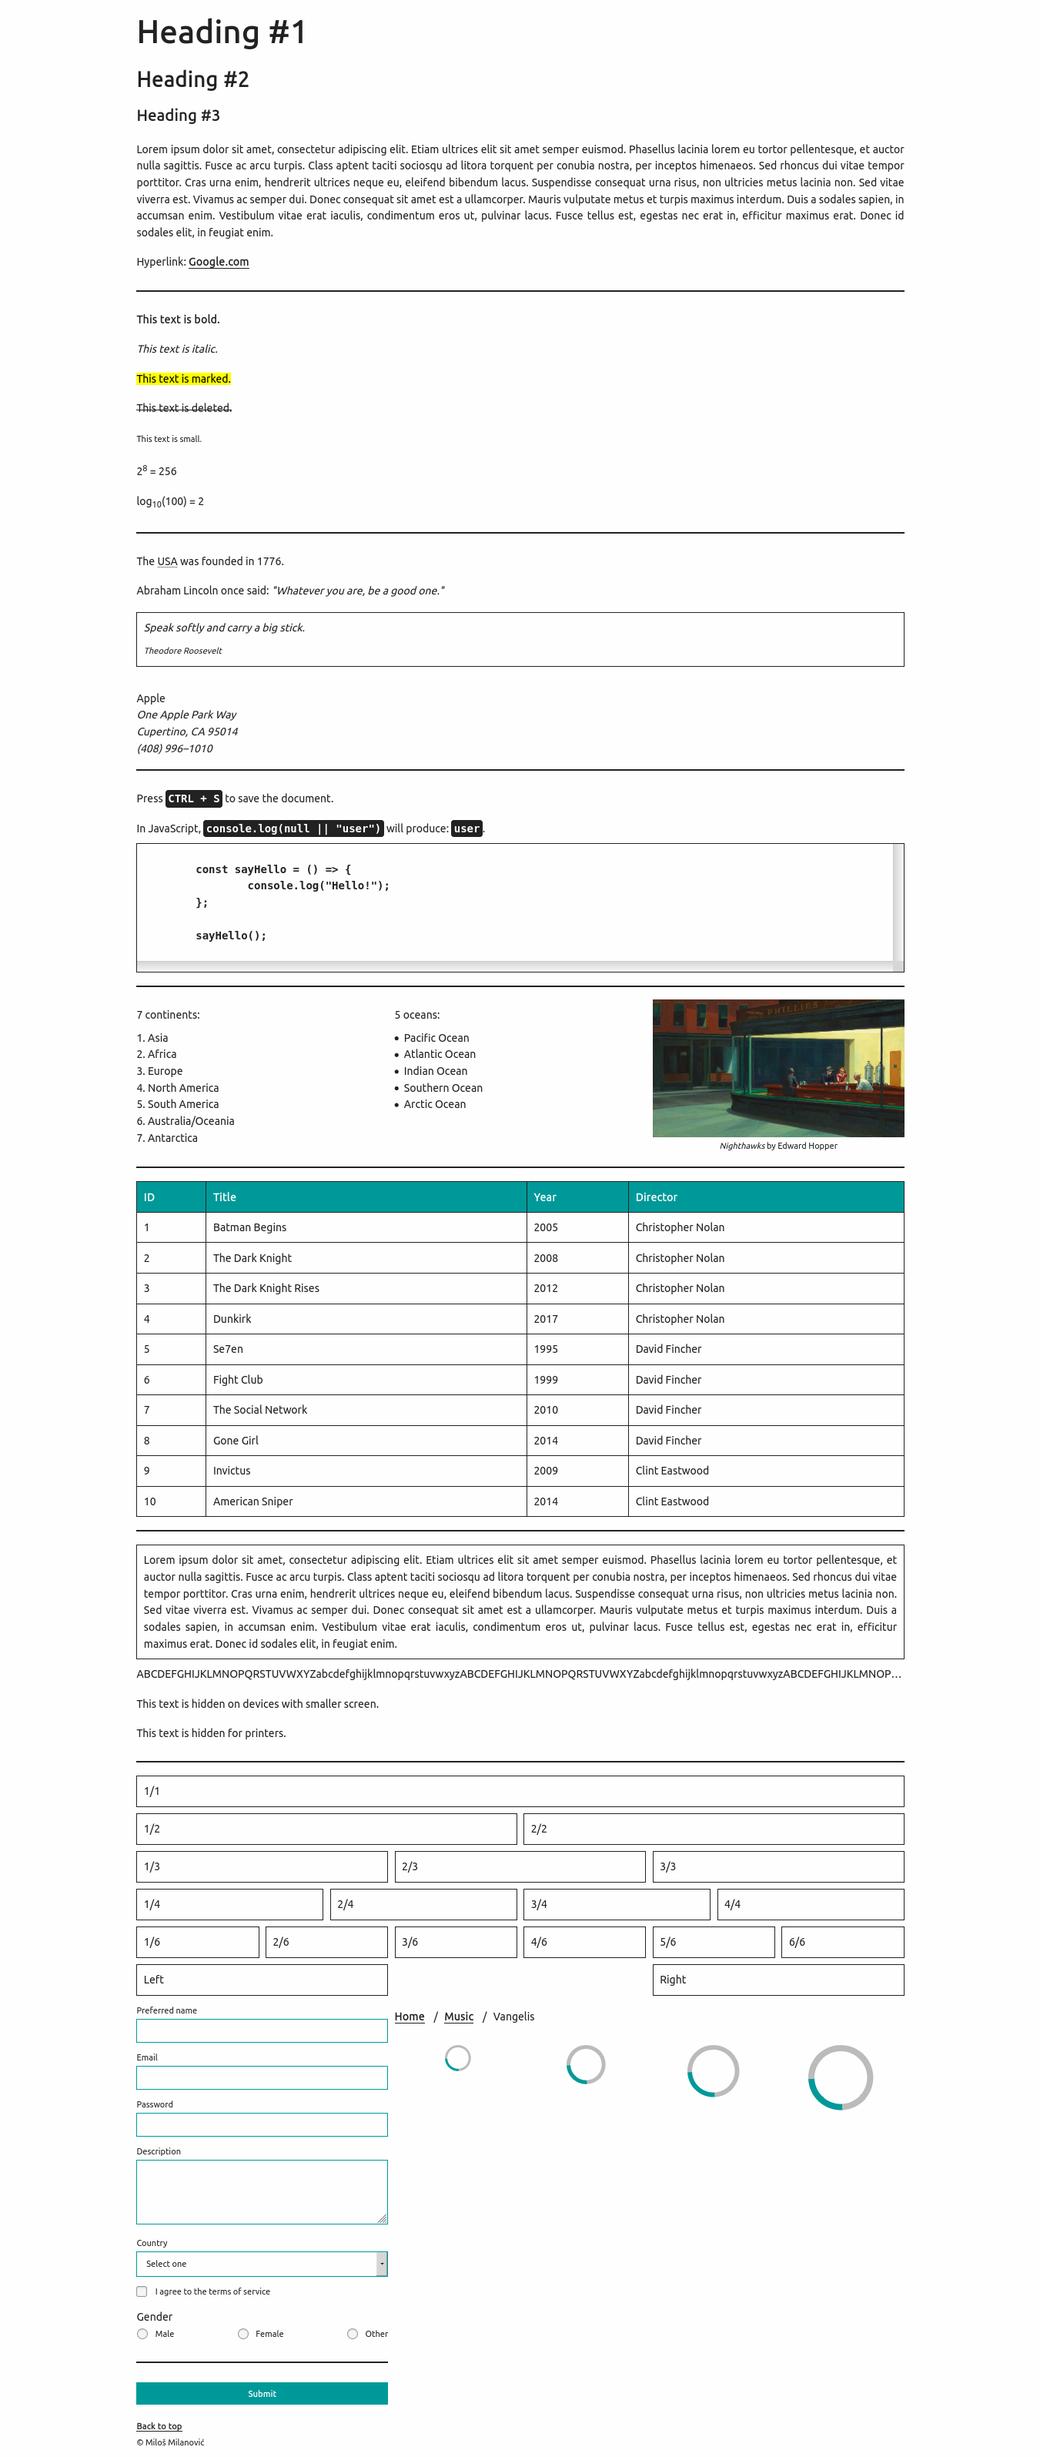
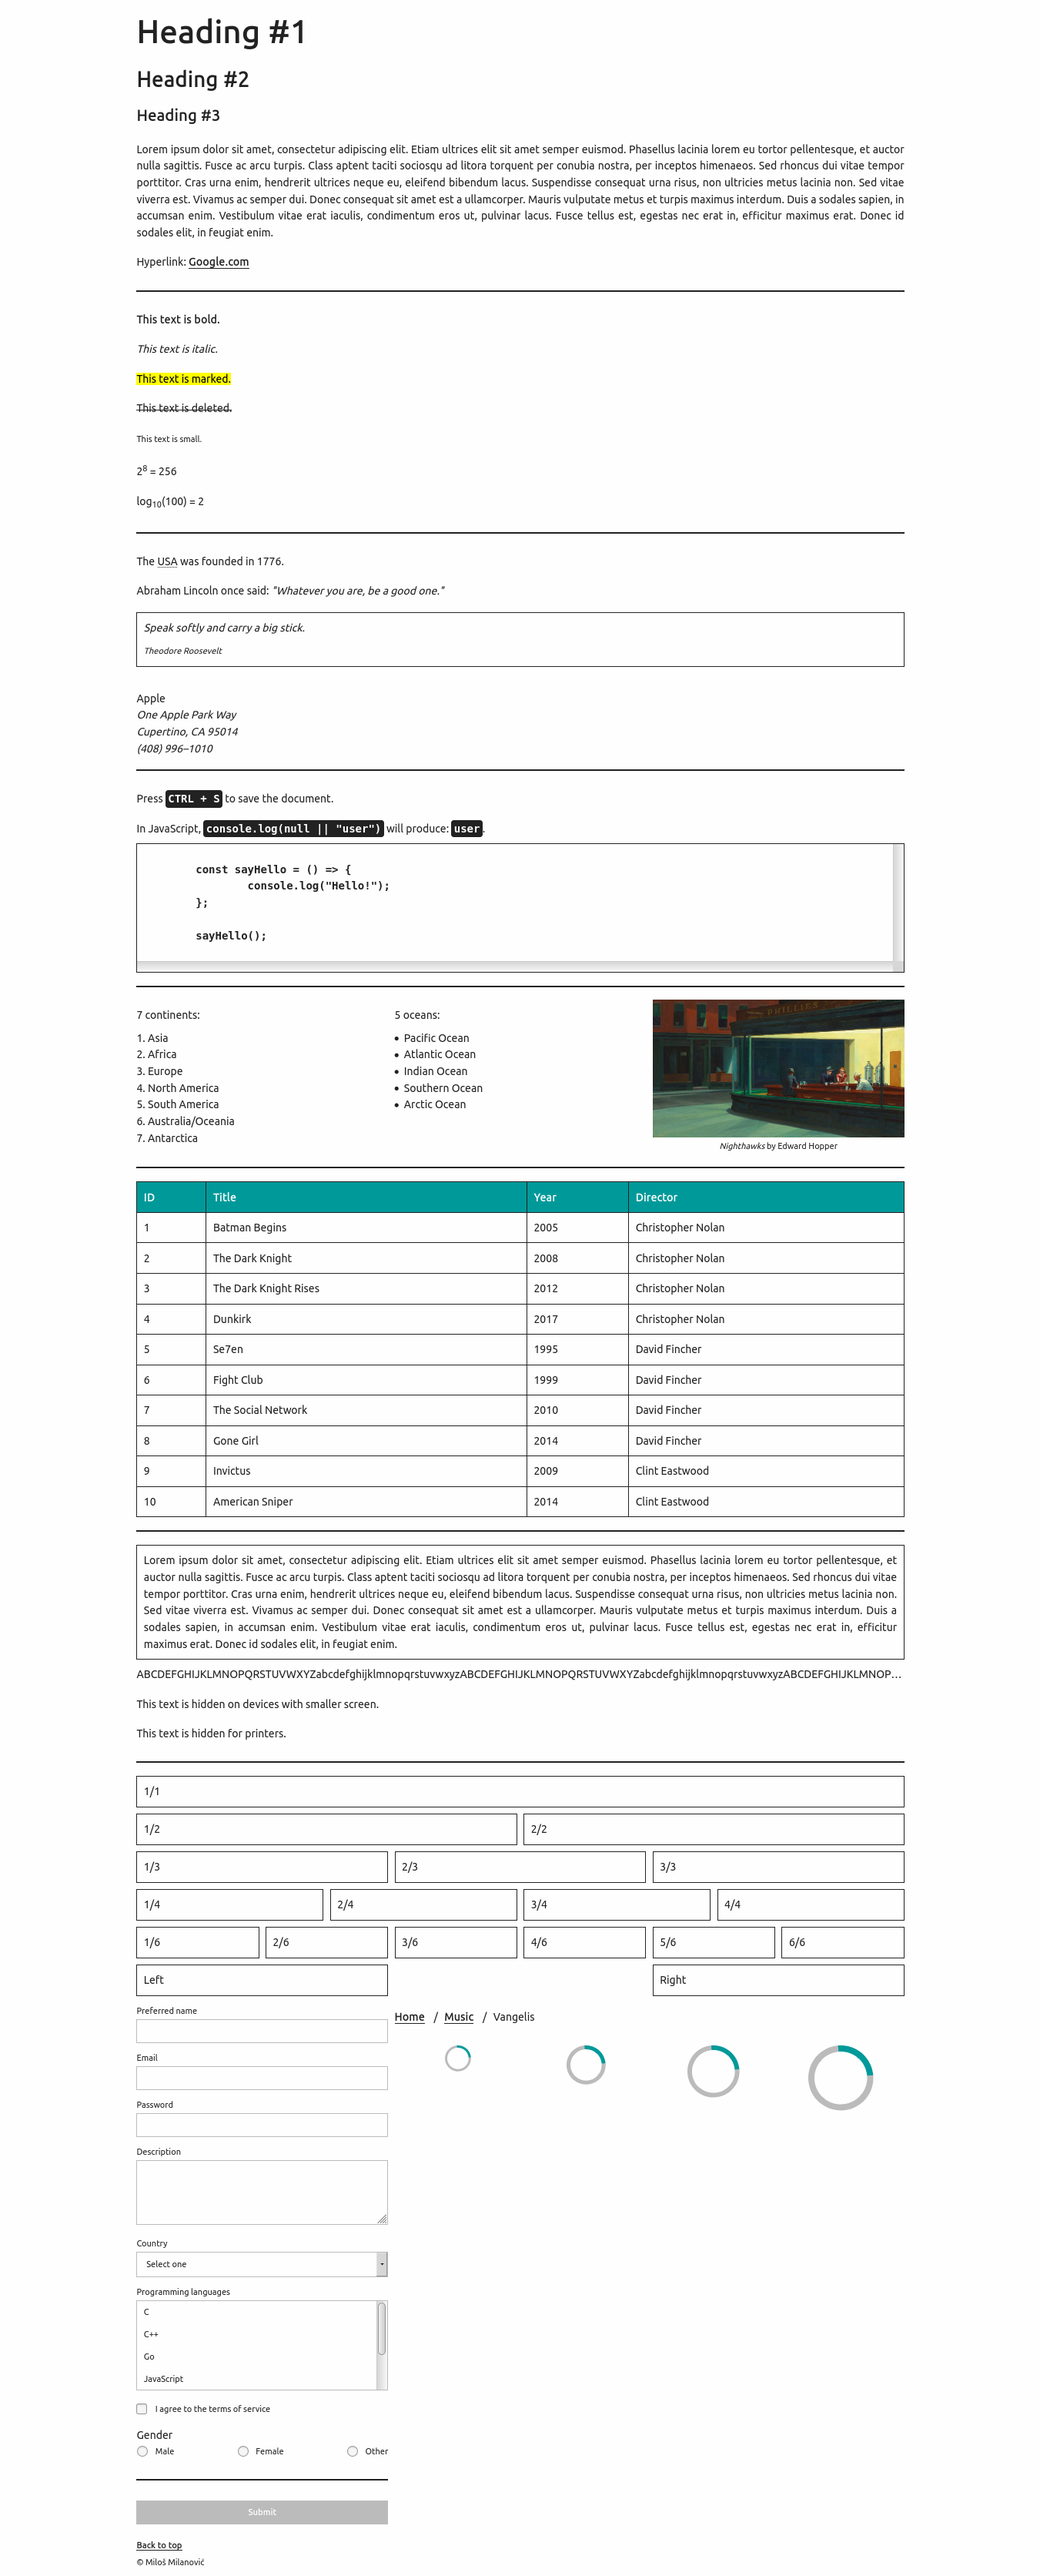
Add styles for Select multiple

diff --git a/dist/minimalizr.css b/dist/minimalizr.css
@@ -1,1 +1,1 @@
-@import"https://fonts.googleapis.com/css2?family=Ubuntu&display=swap";*{font-family:"Ubuntu",sans-serif}*{box-sizing:border-box;margin:0;padding:0}*:focus{outline:3px solid #099;outline-offset:6px}*::selection{background-color:#099;color:#fefefe}html{font-size:100%;scroll-behavior:smooth}body{background-color:#fefefe;color:#222;font-size:1rem;line-height:1.6rem}h1,h2,h3{margin:10px 0}h1{font-size:3rem;line-height:4.8rem}h2{font-size:2rem;line-height:3.2rem}h3{font-size:1.5rem;line-height:2.4rem}p{padding:10px 0;text-align:justify}a{color:inherit;cursor:pointer;font-weight:bold;text-decoration:none;border-bottom:2px solid #222}a:active{border-bottom-color:#099;color:#099}strong{font-weight:bold}em{font-style:italic}mark{background-color:#ff0}del{text-decoration:line-through}small,sub,sup{font-size:smaller}sub{vertical-align:sub}sup{vertical-align:super}abbr[title]{text-decoration:underline dotted}q{font-style:italic}q::before,q::after{content:'"'}blockquote{border:1px solid #222;font-style:italic;margin:10px 0;padding:10px;text-align:justify}blockquote div{font-size:smaller;margin-top:10px}address,cite{font-style:italic}kbd,samp,code,pre{font-family:monospace;font-weight:bold}kbd,samp,code{background-color:#222;color:#fefefe;padding:4px;border-radius:4px}.code{border:1px solid #222;padding:0 10px;overflow:scroll}.code pre{tab-size:2}.code pre code{background-color:inherit;color:inherit}ul,ol{list-style-position:inside}img{max-width:100%;vertical-align:middle}figure figcaption{font-size:smaller;text-align:center}.table-responsive{max-width:100%;overflow-x:auto}table{border-collapse:collapse;width:100%}th,td{border:1px solid #222;padding:10px;text-align:left}th{background-color:#099;color:#fefefe}form{display:grid;grid-auto-flow:row;grid-gap:10px}label{font-size:smaller}label span{user-select:none}label span:first-child{display:inline-block}.checkbox label{cursor:pointer;display:inline-flex;align-items:center}.checkbox input[type=checkbox]{width:auto;margin-right:10px}.radiogroup{display:flex;justify-content:space-between;flex-wrap:wrap}.radiogroup>span{width:100%}.radiogroup label{cursor:pointer;user-select:none;display:inline-flex;align-items:center;flex-direction:row-reverse}.radiogroup input[type=radio]{width:auto;margin-right:10px}input,textarea,select{border:1px solid #099;background-color:#fefefe;padding:10px;width:100%;box-shadow:none}input:invalid,textarea:invalid,select:invalid{border-color:red}input:disabled,textarea:disabled,select:disabled{color:#888;cursor:not-allowed}textarea{height:100px;min-height:40px;max-height:300px;resize:vertical}button{cursor:pointer;font-weight:bold;border:0;background-color:#099;color:#fefefe;padding:10px}button:hover:not(:disabled){transform:translateY(-1px)}button:disabled{cursor:not-allowed}input:focus:not([type=radio]):not([type=checkbox]),textarea:focus:not([type=radio]):not([type=checkbox]),select:focus:not([type=radio]):not([type=checkbox]),button:focus:not([type=radio]):not([type=checkbox]){outline:none;box-shadow:0 0 0 1px #099}hr{border:1px solid #222;margin:20px 0}footer{font-size:smaller}@media screen and (max-width: 768px){body{font-size:.9rem}}.container{width:1200px;max-width:100%;margin:0 auto}.container-fluid{width:100%}.container,.container-fluid{padding:0 10px}.row{display:grid;grid-template-columns:repeat(12, 1fr);margin:10px 0}.row-gapped{grid-gap:10px}.col-1{grid-column:span 1}.col-2{grid-column:span 2}.col-3{grid-column:span 3}.col-4{grid-column:span 4}.col-5{grid-column:span 5}.col-6{grid-column:span 6}.col-7{grid-column:span 7}.col-8{grid-column:span 8}.col-9{grid-column:span 9}.col-10{grid-column:span 10}.col-11{grid-column:span 11}.col-12{grid-column:span 12}.col-pull-right{grid-column-end:-1}@media screen and (max-width: 768px){.col-sm-1{grid-column:span 1}.col-sm-2{grid-column:span 2}.col-sm-3{grid-column:span 3}.col-sm-4{grid-column:span 4}.col-sm-5{grid-column:span 5}.col-sm-6{grid-column:span 6}.col-sm-7{grid-column:span 7}.col-sm-8{grid-column:span 8}.col-sm-9{grid-column:span 9}.col-sm-10{grid-column:span 10}.col-sm-11{grid-column:span 11}.col-sm-12{grid-column:span 12}}.bordered{border:1px solid #222}.padded{padding:10px}.text-left{text-align:left}.text-center{text-align:center}.text-right{text-align:right}.text-justify{text-align:justify}.text-truncate{overflow:hidden;text-overflow:ellipsis;white-space:nowrap}.no-scroll{overflow:hidden}ul.breadcrumbs{display:flex;list-style-type:none;user-select:none}ul.breadcrumbs li{padding:10px 0}ul.breadcrumbs li:not(:last-child)::after{content:" / ";color:#222;display:inline-block;margin:0 10px}ul.breadcrumbs li:last-child a{cursor:initial;font-weight:normal;border-bottom:0}ul.breadcrumbs li:last-child a:hover{color:inherit}@keyframes spin{from{transform:rotate(0deg)}to{transform:rotate(360deg)}}.spinner{height:40px;width:40px}.spinner,.spinner-l,.spinner-xl,.spinner-xxl{border:4px solid #bbb;border-top:4px solid #099;border-radius:50%;display:block;margin:10px auto;overflow:hidden;animation-name:spin;animation-duration:1s;animation-timing-function:linear;animation-iteration-count:infinite}.spinner-l{height:60px;width:60px;border-width:6px}.spinner-xl{height:80px;width:80px;border-width:8px}.spinner-xxl{height:100px;width:100px;border-width:10px}@media screen and (max-width: 768px){.hide-on-sm{display:none}}@media print{.hide-on-print{display:none}}/*# sourceMappingURL=minimalizr.css.map */
+@import"https://fonts.googleapis.com/css2?family=Ubuntu&display=swap";*{font-family:"Ubuntu",sans-serif}*{box-sizing:border-box;margin:0;padding:0}*:focus{outline:3px solid rgba(0,127,255,.5);outline-offset:3px}*::selection{background-color:#099;color:#fefefe}html{font-size:100%;scroll-behavior:smooth}body{background-color:#fefefe;color:#222;font-size:1rem;line-height:1.6rem}h1,h2,h3{margin:10px 0}h1{font-size:3rem;line-height:4.8rem}h2{font-size:2rem;line-height:3.2rem}h3{font-size:1.5rem;line-height:2.4rem}p{padding:10px 0;text-align:justify}a{color:inherit;cursor:pointer;font-weight:bold;text-decoration:none;border-bottom:2px solid #222}a:active{border-bottom-color:#099;color:#099}strong{font-weight:bold}em{font-style:italic}mark{background-color:#ff0}del{text-decoration:line-through}small,sub,sup{font-size:smaller}sub{vertical-align:sub}sup{vertical-align:super}abbr[title]{text-decoration:underline dotted}q{font-style:italic}q::before,q::after{content:'"'}blockquote{border:1px solid #222;font-style:italic;margin:10px 0;padding:10px;text-align:justify}blockquote div{font-size:smaller;margin-top:10px}address,cite{font-style:italic}kbd,samp,code,pre{font-family:monospace;font-weight:bold}kbd,samp,code{background-color:#222;color:#fefefe;padding:4px;border-radius:4px}.code{border:1px solid #222;padding:0 10px;overflow:scroll}.code pre{tab-size:2}.code pre code{background-color:inherit;color:inherit}ul,ol{list-style-position:inside}img{max-width:100%;vertical-align:middle}figure figcaption{font-size:smaller;text-align:center}.table-responsive{max-width:100%;overflow-x:auto}table{border-collapse:collapse;width:100%}th,td{border:1px solid #222;padding:10px;text-align:left}th{background-color:#099;color:#fefefe}form{display:grid;grid-auto-flow:row;grid-gap:10px}label{font-size:smaller}label span{user-select:none}label span:first-child{display:inline-block}.checkbox label{cursor:pointer;display:inline-flex;align-items:center}.checkbox input[type=checkbox]{width:auto;margin-right:10px}.radiogroup{display:flex;justify-content:space-between;flex-wrap:wrap}.radiogroup>span{width:100%}.radiogroup label{cursor:pointer;user-select:none;display:inline-flex;align-items:center;flex-direction:row-reverse}.radiogroup input[type=radio]{width:auto;margin-right:10px}input,textarea,select{border:2px solid #bbb;background-color:#fefefe;padding:10px;width:100%;box-shadow:none}input:invalid,textarea:invalid,select:invalid{border-color:red}input:disabled,textarea:disabled,select:disabled{color:#888;cursor:not-allowed}select[multiple]{padding:0}select[multiple] option{padding:10px}textarea{height:100px;min-height:40px;max-height:300px;resize:vertical}button{cursor:pointer;font-weight:bold;border:0;background-color:#bbb;border:2px solid #bbb;color:#fefefe;padding:10px;transition-property:background-color;transition-duration:.2s;transition-timing-function:ease-in-out}button:hover:not(:disabled){background-color:#099}button:disabled{cursor:not-allowed}input:focus:not([type=radio]):not([type=checkbox]),textarea:focus:not([type=radio]):not([type=checkbox]),select:focus:not([type=radio]):not([type=checkbox]),button:focus:not([type=radio]):not([type=checkbox]){outline:none;border-color:#099 !important}hr{border:1px solid #222;margin:20px 0}footer{font-size:smaller}@media screen and (max-width: 768px){body{font-size:.9rem}}.container{width:1200px;max-width:100%;margin:0 auto}.container-fluid{width:100%}.container,.container-fluid{padding:0 10px}.row{display:grid;grid-template-columns:repeat(12, 1fr);margin:10px 0}.row-gapped{grid-gap:10px}.col-1{grid-column:span 1}.col-2{grid-column:span 2}.col-3{grid-column:span 3}.col-4{grid-column:span 4}.col-5{grid-column:span 5}.col-6{grid-column:span 6}.col-7{grid-column:span 7}.col-8{grid-column:span 8}.col-9{grid-column:span 9}.col-10{grid-column:span 10}.col-11{grid-column:span 11}.col-12{grid-column:span 12}.col-pull-right{grid-column-end:-1}@media screen and (max-width: 768px){.col-sm-1{grid-column:span 1}.col-sm-2{grid-column:span 2}.col-sm-3{grid-column:span 3}.col-sm-4{grid-column:span 4}.col-sm-5{grid-column:span 5}.col-sm-6{grid-column:span 6}.col-sm-7{grid-column:span 7}.col-sm-8{grid-column:span 8}.col-sm-9{grid-column:span 9}.col-sm-10{grid-column:span 10}.col-sm-11{grid-column:span 11}.col-sm-12{grid-column:span 12}}.bordered{border:1px solid #222}.padded{padding:10px}.text-left{text-align:left}.text-center{text-align:center}.text-right{text-align:right}.text-justify{text-align:justify}.text-truncate{overflow:hidden;text-overflow:ellipsis;white-space:nowrap}.no-scroll{overflow:hidden}ul.breadcrumbs{display:flex;list-style-type:none;user-select:none}ul.breadcrumbs li{padding:10px 0}ul.breadcrumbs li:not(:last-child)::after{content:" / ";color:#222;display:inline-block;margin:0 10px}ul.breadcrumbs li:last-child a{cursor:initial;font-weight:normal;border-bottom:0}ul.breadcrumbs li:last-child a:hover{color:inherit}@keyframes spin{from{transform:rotate(0deg)}to{transform:rotate(360deg)}}.spinner{height:40px;width:40px}.spinner,.spinner-l,.spinner-xl,.spinner-xxl{border:4px solid #bbb;border-top:4px solid #099;border-radius:50%;display:block;margin:10px auto;overflow:hidden;animation-name:spin;animation-duration:1s;animation-timing-function:linear;animation-iteration-count:infinite}.spinner-l{height:60px;width:60px;border-width:6px}.spinner-xl{height:80px;width:80px;border-width:8px}.spinner-xxl{height:100px;width:100px;border-width:10px}@media screen and (max-width: 768px){.hide-on-sm{display:none}}@media print{.hide-on-print{display:none}}/*# sourceMappingURL=minimalizr.css.map */

diff --git a/src/_base.scss b/src/_base.scss
@@ -12,8 +12,8 @@
 	padding: 0;
 
 	&:focus {
-		outline: 3px solid #099;
-		outline-offset: 6px;
+		outline: 3px solid rgba(0, 127, 255, .5);
+		outline-offset: 3px;
 	}
 
 	&::selection {
@@ -255,7 +255,7 @@ form {
 }
 
 input, textarea, select {
-	border: 1px solid #099;
+	border: 2px solid #bbb;
 	background-color: #fefefe;
 	padding: $spacing;
 	width: 100%;
@@ -271,6 +271,14 @@ input, textarea, select {
 	}
 }
 
+select[multiple] {
+	padding: 0;
+
+	option {
+		padding: $spacing;
+	}
+}
+
 textarea {
 	height: 100px;
 	min-height: 40px;
@@ -283,12 +291,17 @@ button {
 	cursor: pointer;
 	font-weight: bold;
 	border: 0;
-	background-color: #099;
+	background-color: #bbb;
+	border: 2px solid #bbb;
 	color: #fefefe;
 	padding: $spacing;
 
+	transition-property: background-color;
+	transition-duration: .2s;
+	transition-timing-function: ease-in-out;
+
 	&:hover:not(:disabled) {
-		transform: translateY(-1px);
+		background-color: #099;
 	}
 
 	&:disabled {
@@ -300,7 +313,7 @@ input, textarea, select, button {
 	&:focus {
 		&:not([type="radio"]):not([type="checkbox"]) {
 			outline: none;
-			box-shadow: 0 0 0 1px #099;
+			border-color: #099 !important;
 		}
 	}
 }

diff --git a/index.html b/index.html
@@ -264,6 +264,17 @@
 							<option value="us">USA</option>
 						</select>
 					</label>
+					<label>
+						<span>Programming languages</span>
+						<select multiple>
+							<option value="c">C</option>
+							<option value="cpp">C++</option>
+							<option value="go">Go</option>
+							<option value="javascript">JavaScript</option>
+							<option value="php">PHP</option>
+							<option value="python">Python</option>
+						</select>
+					</label>
 					<div class="checkbox">
 						<label>
 							<input type="checkbox">
@@ -302,16 +313,16 @@
 					</li>
 				</ul>
 				<div class="row">
-					<div class="col-3 no-scroll">
+					<div class="col-3 col-sm-12 no-scroll">
 						<span class="spinner"></span>
 					</div>
-					<div class="col-3 no-scroll">
+					<div class="col-3 col-sm-12 no-scroll">
 						<span class="spinner-l"></span>
 					</div>
-					<div class="col-3 no-scroll">
+					<div class="col-3 col-sm-12 no-scroll">
 						<span class="spinner-xl"></span>
 					</div>
-					<div class="col-3 no-scroll">
+					<div class="col-3 col-sm-12 no-scroll">
 						<span class="spinner-xxl"></span>
 					</div>
 				</div>
